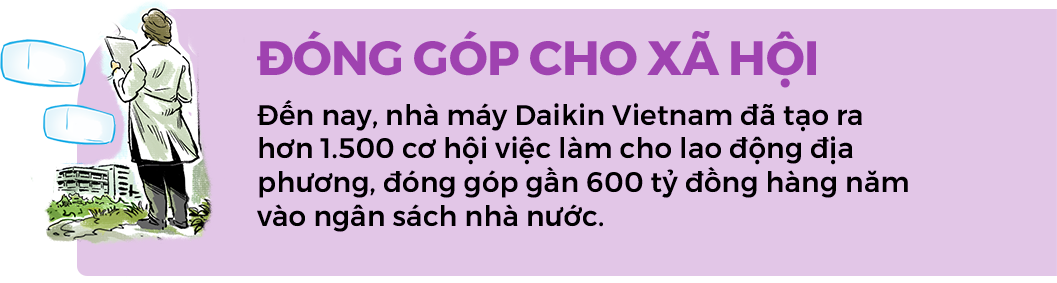
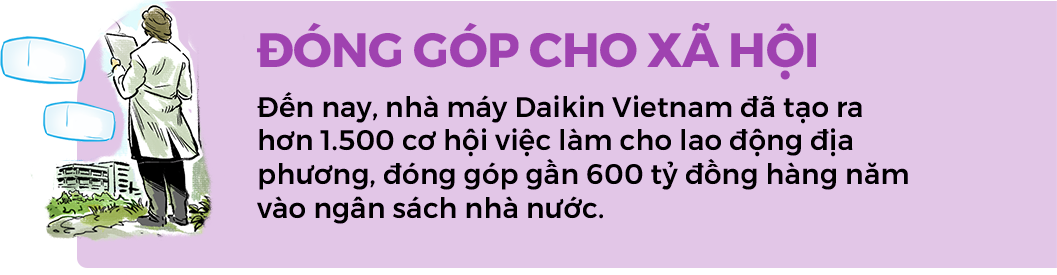
update page-hanhtrinh-02

diff --git a/hanh-trinh-02.html b/hanh-trinh-02.html
@@ -50,8 +50,8 @@
         <img src="./images/bg-hanhtrinh.jpg" alt="" class="bg-banner md-desktop">
         <div class="md-content">
             <a href="#"><img src="./images/md-back.png" alt="" class="md-back"></a>
-            <h3 class="md-desktop">hành trình <span>100 năm daikin</span></h3>
-            <h3 class="md-mobile"><img src="./images/text-hanhtrinh.png" alt=""></h3>
+            <h3 class="md-desktop">nhà máy <span>daikin việt nam</span></h3>
+            <h3 class="md-mobile"><img src="./images/text-hanhtrinh-v2.png" alt=""></h3>
             <div class="main-content md-mobile">
                 <div class="md-col md-col-2">
                     <img src="./images/hanhtrinh-1-v2.png" alt="" class="img-giaithuong ">                

diff --git a/css/style.css b/css/style.css
@@ -3732,7 +3732,7 @@ p.error-2{
     text-align: justify;
   }
   .page-hanhtrinh-02 .md-content .main-content .md-col .img-giaithuong{
-    margin-top: 10px;
+    margin-top: 8px;
   }
 }
 .page-hanhtrinh .md-content .main-content .md-col-2{
